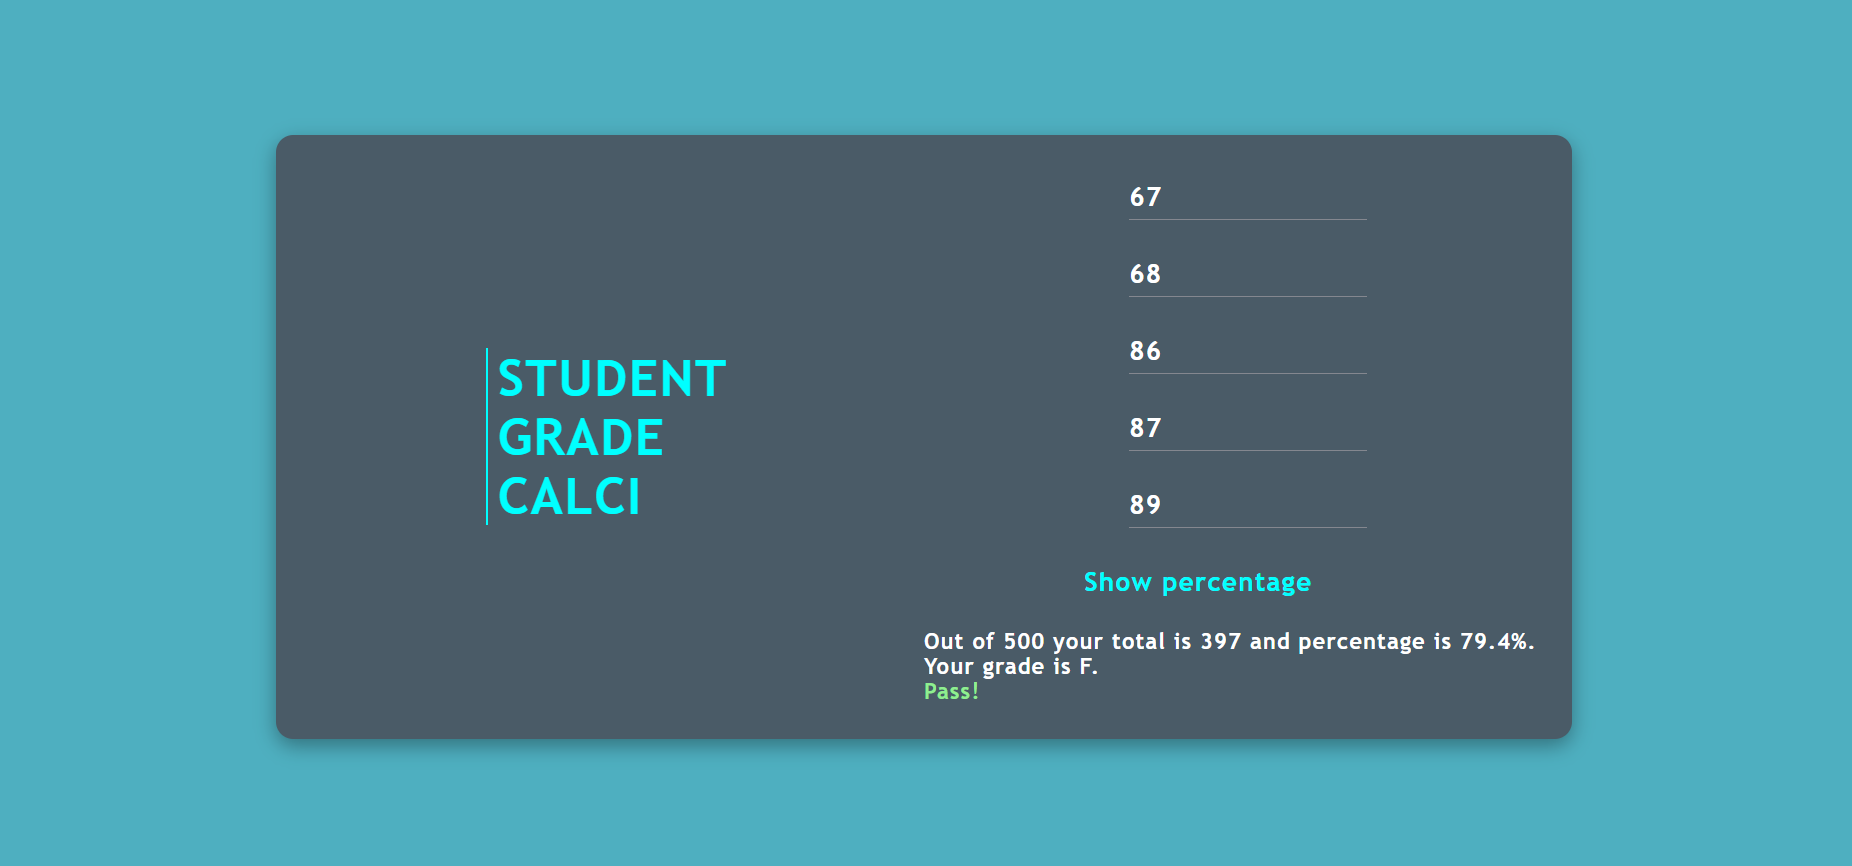
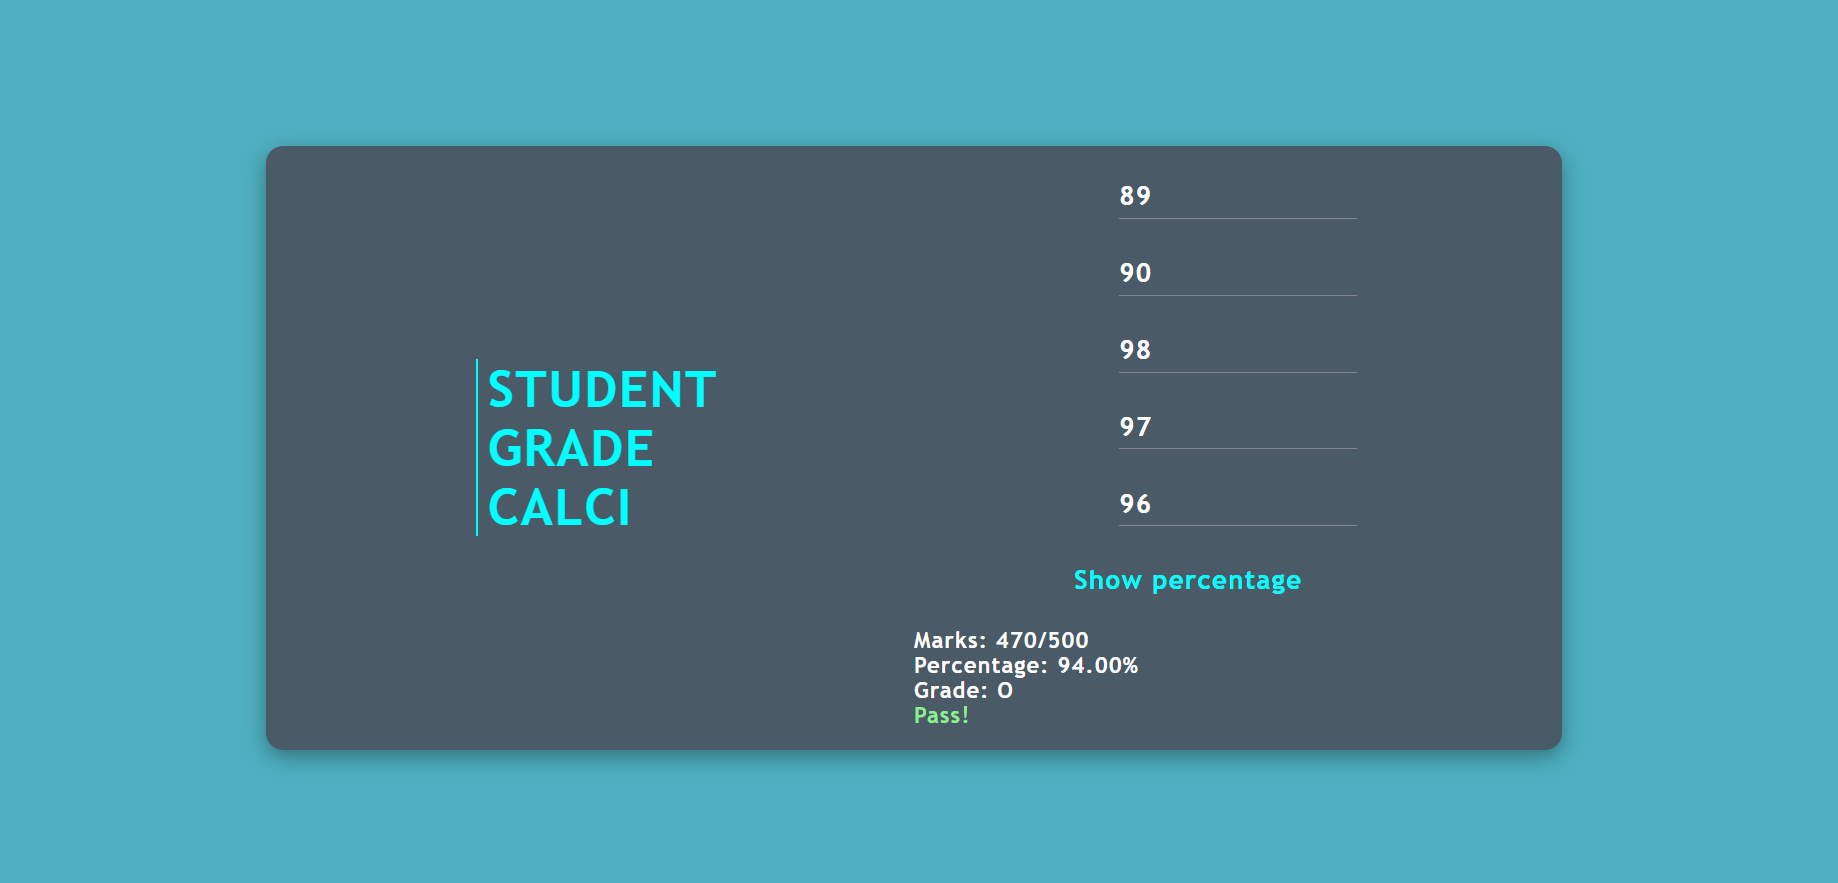
commit

diff --git a/js/script.js b/js/script.js
@@ -10,15 +10,28 @@ const calci =() =>{
     let per=(total/500)*100;
     per=per.toFixed(2);
 
-    if(per<=100 && per>=80){
+    if(per<=100 && per>=90){
+        grade='O';
+    }
+    else if(per<=89 && per>=80){
         grade='A';
     }
-    else if(per<=100 && per>=80){
+    else if(per<=79 && per>=70){
         grade='B';
     }
-    else if(per<=100 && per>=80){
+    else if(per<=69 && per>=60){
         grade='C';
-    }else{
+    }
+    else if(per<=59 && per>=50){
+        grade='D';
+    }
+    else if(per<=49 && per>=45){
+        grade='E';
+    }
+    else if(per<=44 && per>=40){
+        grade='P';
+    }
+    else{
         grade='F';
     }
     if(parseFloat(sub1)>100 || parseFloat(sub1)<0 || parseFloat(sub2)>100 || parseFloat(sub2)<0 ||parseFloat(sub3)>100 || parseFloat(sub3)<0 ||parseFloat(sub4)>100 || parseFloat(sub4)<0 ||parseFloat(sub5)>100 || parseFloat(sub5)<0){
@@ -27,7 +40,7 @@ const calci =() =>{
     else if(sub1=="" || sub2=="" || sub3=="" || sub4=="" || sub5==""){
         document.getElementById('showData').innerHTML=`<h3 style="color:yellow">Please fill the details!</h3>`
     }
-   else if(per>=35 && sub1>35 && sub2>35 && sub3>35 && sub4>35 && sub5>35){
+   else if(sub1>40 && sub2>40 && sub3>40 && sub4>40 && sub5>40){
         document.getElementById('showData').innerHTML=`Marks: ${total}/500 <br> Percentage: ${per}% <br>Grade: ${grade}<h4 style="color:lightgreen">Pass!</h4>`
     }
      else{

diff --git a/css/style.css b/css/style.css
@@ -49,7 +49,7 @@ input:hover{
 }
 #submit:hover{
     font-size: 1.2rem;
-    color: #d5f3f7;
+    color:rgb(96, 231, 202);
 }
 
 .left,.right{

diff --git a/README.md b/README.md
@@ -2,9 +2,15 @@
 
 ## Overview
 
-### This is a Project on JavaScript, to display result of student!
-
+### This is a Project on JavaScript, to display result of student which includes total marks, percentage and grade!
 ![](./media/design.png)
+
+#### There are certain criteria:
+##### 1) If the user don't enter marks before submitting rather it be single or multiple, then it shows error!
+![](./media/emp.png)
+
+##### 1) If the user enters negative marks or greater than 100 then it shows error!
+![](./media/valid.png)
 
 ## My process
 
